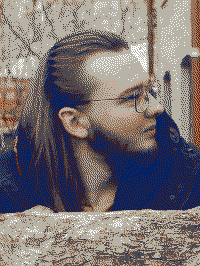
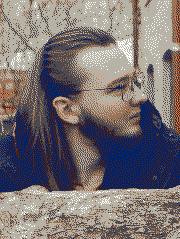
add responsibilities

diff --git a/index.html b/index.html
@@ -3,7 +3,7 @@
 <html lang="en">  
    <head>
       <meta charset = "utf-8">
-      <meta name="viewport" content="width=750, initial-scale=1">
+      <meta name="viewport" content="width=720px">
       <title>Pavel Pikirenia</title>
       <link rel="stylesheet" href="./css/style.css">
       <link rel="stylesheet" href="./css/windows.css">
@@ -46,7 +46,9 @@
             </td>
           </tr>
           <tr>
-            <td class="cell-image"></td>
+            <td>
+              <image src="./assets/photo.png" class="profile-photo"></image>
+            </td>
           </tr>
         </table>
         <!-- Introducation -->
@@ -315,6 +317,14 @@
                       <div class="list-item-nested">
                         <image class="inline-dash"></image>
                         <image src="./assets/icons/chip.svg" class="list-bullet"></image>
+                        &nbsp;Stash
+                      </div>
+                    </div>
+                    <div class="list-item2 collapsible-additional-software">
+                      <image class="vertical-dash"></image>
+                      <div class="list-item-nested">
+                        <image class="inline-dash"></image>
+                        <image src="./assets/icons/chip.svg" class="list-bullet"></image>
                         &nbsp;Git
                       </div>
                     </div>
@@ -441,6 +451,7 @@
                   <div class="list">
                     <input type="checkbox" id="wargaming"/>
                     <input type="checkbox" id="wargaming-technologies"/>
+                    <input type="checkbox" id="wargaming-responsibilities"/>
                     <div class="list-item">
                       <label for="wargaming">
                         <image class="list-bullet-collapsible-wargaming"></image>
@@ -540,6 +551,59 @@
                         <image class="inline-dash"></image>
                         <image src="./assets/icons/chip.svg" class="list-bullet"></image>
                         &nbsp;Nginx
+                      </div>
+                    </div>
+                    <div class="list-item2 collapsible-wargaming">
+                      <image class="vertical-dash"></image>
+                      <image class="vertical-dash-2 collapsible-wargaming-technologies"></image>
+                      <image class="vertical-dash-3 collapsible-wargaming-technologies"></image>
+                      <image class="vertical-dash-4 collapsible-wargaming-technologies"></image>
+                      <image class="vertical-dash-5 collapsible-wargaming-technologies"></image>
+                      <image class="vertical-dash-6 collapsible-wargaming-technologies"></image>
+                      <image class="vertical-dash-7 collapsible-wargaming-technologies"></image>
+                      <image class="vertical-dash-8 collapsible-wargaming-technologies"></image>
+                      <image class="vertical-dash-9 collapsible-wargaming-technologies"></image>
+                      <div class="list-item-root">
+                        <label for="wargaming-responsibilities">
+                          <image class="list-bullet-collapsible-wargaming-responsibilities"></image>
+                        </label>
+                        <div class="list-item-nested-root">
+                          <image class="inline-dash"></image>
+                          <image src="./assets/icons/chip.svg" class="list-bullet"></image>
+                          &nbsp;Responsibilities
+                        </div>
+                      </div>
+                    </div>
+                    <div class="list-item3 collapsible-wargaming collapsible-wargaming-responsibilities">
+                      <image class="vertical-dash"></image>
+                      <div class="list-item-nested">
+                        <image class="inline-dash"></image>
+                        <image src="./assets/icons/chip.svg" class="list-bullet"></image>
+                        &nbsp;Working on backend microservices
+                      </div>
+                    </div>
+                    <div class="list-item3 collapsible-wargaming collapsible-wargaming-responsibilities">
+                      <image class="vertical-dash"></image>
+                      <div class="list-item-nested">
+                        <image class="inline-dash"></image>
+                        <image src="./assets/icons/chip.svg" class="list-bullet"></image>
+                        &nbsp;Investigating production incidents
+                      </div>
+                    </div>
+                    <div class="list-item3 collapsible-wargaming collapsible-wargaming-responsibilities">
+                      <image class="vertical-dash"></image>
+                      <div class="list-item-nested">
+                        <image class="inline-dash"></image>
+                        <image src="./assets/icons/chip.svg" class="list-bullet"></image>
+                        &nbsp;Developing solutions for new features
+                      </div>
+                    </div>
+                    <div class="list-item3 collapsible-wargaming collapsible-wargaming-responsibilities">
+                      <image class="vertical-dash"></image>
+                      <div class="list-item-nested">
+                        <image class="inline-dash"></image>
+                        <image src="./assets/icons/chip.svg" class="list-bullet"></image>
+                        &nbsp;Conducting code review
                       </div>
                     </div>
                   </div>

diff --git a/css/toggles.css b/css/toggles.css
@@ -51,7 +51,19 @@ input {
     display: none;
 }
 
+#wargaming-technologies:checked ~ div[class~=list-item2] > img[class~=collapsible-wargaming-technologies] {
+    display: none;
+}
+
 #wargaming-technologies:checked ~ * .list-bullet-collapsible-wargaming-technologies {
+    content: url("../assets/icons/plus.svg");
+}
+
+#wargaming-responsibilities:checked ~ div[class~=collapsible-wargaming-responsibilities] {
+    display: none;
+}
+
+#wargaming-responsibilities:checked ~ * .list-bullet-collapsible-wargaming-responsibilities {
     content: url("../assets/icons/plus.svg");
 }
 

diff --git a/css/header.css b/css/header.css
@@ -2,17 +2,13 @@
     display: flex;
     flex-direction: row;
     width: 100%;
-    --photo-width: 180px;
-    --photo-height: 240px;
+    --photo-height: 239px;
 }
 
-.cell-image {
-    background-image: url('./../assets/photo.png');
-    background-size: cover;
-    display: flex;
+.profile-photo {
     height: var(--photo-height);
-    width: var(--photo-width);
     image-rendering: pixelated;
+    margin-bottom: calc(var(--border-width) * -1.4);
 }
 
 .introduction-centered {

diff --git a/css/style.css b/css/style.css
@@ -9,6 +9,7 @@
 
 html {
     touch-action: manipulation;
+    --min-width: calc(720px);
 }
 
 * {
@@ -24,7 +25,7 @@ body {
     --border-width: 2px;
     --max-width: 1000px;
     --target-padding: 10px;
-    --header-height: 1.2em;
+    --header-height: calc(var(--font-size) * 1.2);
     background-color: #57A8A8;
     font-family: 'W95FA';
 }

diff --git a/css/footer.css b/css/footer.css
@@ -1,7 +1,7 @@
 .footer {
     position: fixed;
     bottom: 0;
-    width: 100%;
+    width: max(100%, var(--min-width));
     z-index: 2;
 }
 
